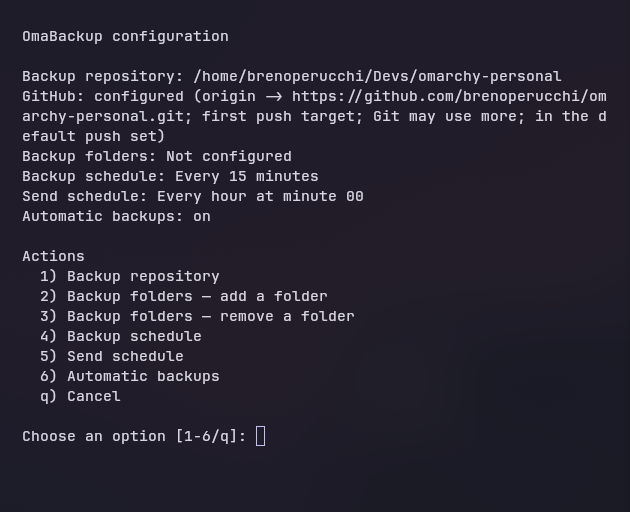
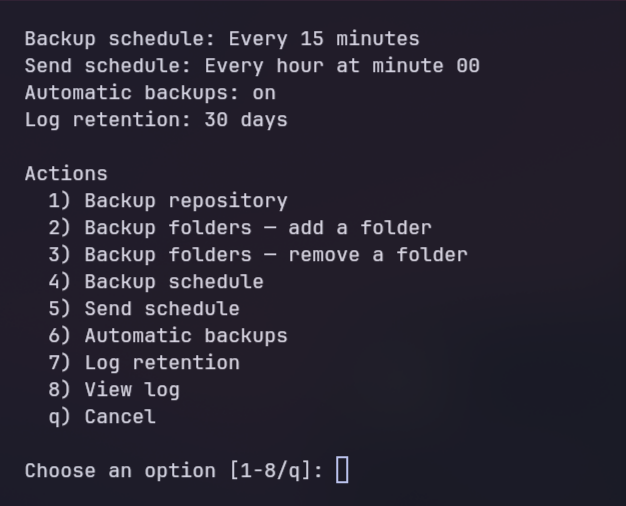
fix: panel height cap and recentLog sample, updated screenshots
A real screenshot showed "Recent activity" (defaulted open in 9ce47e9)
still pushing the main panel into an internal scroll it never needed
before that section was promoted near the top. Two changes close it:
the panel's own height cap went from 560 to 700 (still in the same
family other real Omarchy panels use -- most cap at 560, the `agents`
plugin's own panel already caps at 640; `fittedContentHeight` still
clamps to the available screen space first, so this only matters when
the screen has room to give), and the recentLog sample cmd_status --json
exposes to the panel dropped from 5 lines to 3 -- a real viewer with a
user-chosen count is still `omabackup log-tail N` / the Settings TUI's
own "View log" item, not this glance. Confirmed live before committing:
copied the two changed files into the installed plugin clone directly
(bypassing git) and restarted the shell for a real screenshot, which is
what the panel.png replacement below is.

Also replaced both README screenshots with current captures: panel.png
now shows the reorg from 9ce47e9 (version in the title row, "Recent
activity" promoted and open) with this round's own height/line-count
fix already applied, and config.png now shows the Settings TUI's "View
log" item (option 8), added in a2d67b7 but never previously captured.

Full suite: 1320 passed, 0 failed.

Claude-Session: https://claude.ai/code/session_019FVehMdjUoAw57NcvqH56V

Changed region(s): [[0.0304, 0.1186, 0.9712, 0.8893], [0.0304, 0.8893, 0.5767, 0.9486], [0.0304, 0.0593, 0.6677, 0.0889]]

diff --git a/Panel.qml b/Panel.qml
@@ -1448,10 +1448,19 @@ Panel {
     // Sized against omarchy's own info panel, which is the house reference for
     // a panel with this much to say: it uses 430 wide and 560 tall. A little
     // wider here because the group list runs in two columns.
+    //
+    // Height raised from that 560 reference to 700 -- still within the same
+    // family other real Omarchy panels use (most cap at 560, the `agents`
+    // plugin's own panel already caps at 640) -- after a real screenshot
+    // showed "Recent activity" defaulting open pushed the Flickable below
+    // into a scroll that did not exist before that section was promoted
+    // near the top. `fittedContentHeight` still clamps to the available
+    // screen space first, so this only matters when the screen has the room
+    // to give; it does not force the panel taller than it needs to be.
     contentWidth: panel.fittedContentWidth(Style.space(470))
     contentHeight: panel.fittedContentHeight(
       column.implicitHeight + footerBar.height,
-      Style.space(560))
+      Style.space(700))
 
     PanelKeyCatcher {
       id: keyCatcher
